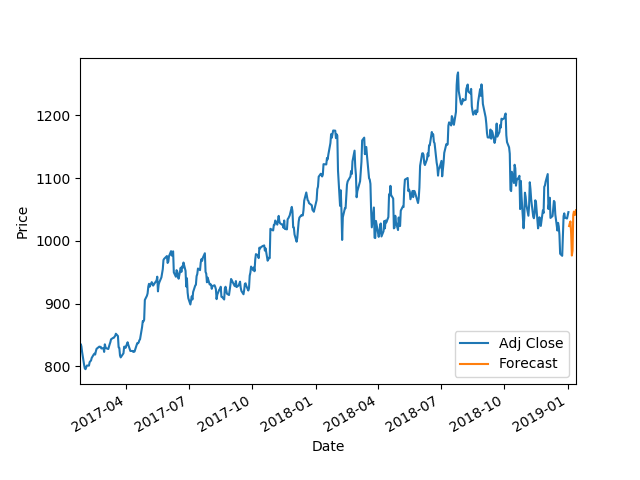
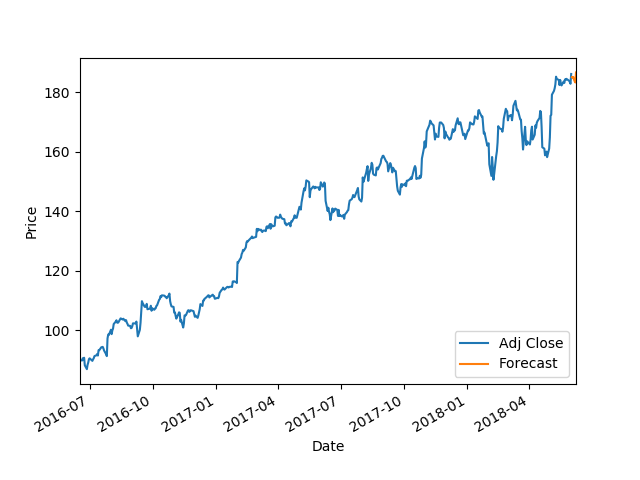
recebendo json

diff --git a/templates/teste.html b/templates/teste.html
@@ -1,0 +1,25 @@
+{% extends 'template.html' %}
+{% block head %}
+<title>API - Flask</title>
+{% endblock %}
+
+
+{% block body %}
+    <div class="container mt-5">
+
+        <div class="row mt-4">
+          <div class="col-2"></div>
+          <div class="col" align='center'>
+            <h4>Nova Tarefa</h4>
+            <form action="/" method="POST">
+              <input type="text" name="content" id="content" placeholder="Tarefa">
+              <button class="btn btn-outline-dark">Pesquisar</button>
+            </form>
+          </div>
+          <div class="col-2"></div>
+        </div>
+    </div>
+
+
+
+{% endblock %}

diff --git a/app.py b/app.py
@@ -97,8 +97,7 @@ def lista():
     # return render_template('data.html', data=stocks)
 
 
-@app.route('/predict')
-def predict():
+
     start = datetime(2015, 1, 1)
     end = datetime(2016, 1, 1)
     facebook = web.DataReader('FB', 'yahoo', start, end)
@@ -188,12 +187,32 @@ def adjclose():
     return ''
     
 
-@app.route('/pricing')
+@app.route('/teste', methods=['POST'])
+def teste():
+    content = request.json
+    
+    data_ini = content['data_ini'].split('-')
+    data_fin = content['data_fin'].split('-')
+
+    
+    print(type(int(data_ini[2])))
+    print(type(int(data_ini[1])))
+    print(type(int(data_ini[0])))
+    print(int(data_ini[2]), int(data_ini[1]), int(data_ini[0]))
+    return jsonify(data_ini)
+
+
+@app.route('/pricing', methods=['POST'])
 def pricing():
-    lm = LinearRegression(n_jobs=-1)
-    start = datetime(2015, 1, 1)
-    end = datetime(2019, 1, 1)
-    stock = web.DataReader('GOOG', 'yahoo', start, end)
+    content = request.json
+
+    date_ini = content['date_ini'].split('-')
+    date_fin = content['date_fin'].split('-')
+
+    start = datetime(int(date_ini[2]), int(date_ini[1]), int(date_ini[0]))
+    end = datetime(int(date_fin[2]), int(date_fin[1]), int(date_fin[0]))
+
+    stock = web.DataReader(content['symbol'], 'yahoo', start, end)
     df = pd.DataFrame(stock)
     
     # Criando novo dataframe
